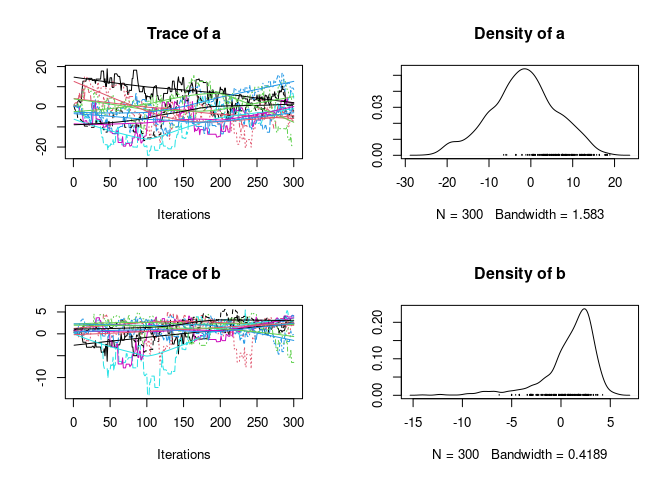
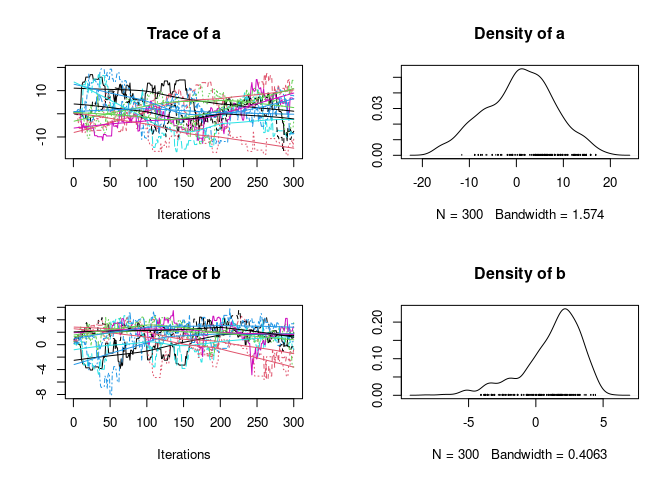
Fix author name

diff --git a/README.md b/README.md
@@ -13,8 +13,8 @@ coverage](https://codecov.io/gh/Bisaloo/MCMCEnsembleSampler/branch/master/graph/
 
 Ensemble Markov Chain Monte Carlo samplers with different strategies to
 generate proposals. Either the *stretch move* as proposed by Goodman and
-Weare (2010), or a *differential evolution jump move* (similar to Braak
-and Vrugt, 2008) is used.
+Weare (2010), or a *differential evolution jump move* (similar to ter
+Braak and Vrugt, 2008) is used.
 
 ## Installation
 
@@ -41,12 +41,12 @@ res1 <- MCMCEnsemble(p.log, lower.inits=c(a=0, b=0), upper.inits=c(a=1, b=1),
 #> Using stretch move with 10 walkers.
 str(res1)
 #> List of 2
-#>  $ samples: num [1:10, 1:300, 1:2] 0.187 0.841 0.75 0.759 0.607 ...
+#>  $ samples: num [1:10, 1:300, 1:2] 0.776 0.163 0.15 0.298 0.354 ...
 #>   ..- attr(*, "dimnames")=List of 3
 #>   .. ..$ : chr [1:10] "walker_1" "walker_2" "walker_3" "walker_4" ...
 #>   .. ..$ : chr [1:300] "generation_1" "generation_2" "generation_3" "generation_4" ...
 #>   .. ..$ : chr [1:2] "a" "b"
-#>  $ log.p  : num [1:10, 1:300] -2.04 -3.2 -2.29 -3.57 -2.65 ...
+#>  $ log.p  : num [1:10, 1:300] -3.94 -3.43 -3.6 -4.46 -2.28 ...
 #>   ..- attr(*, "dimnames")=List of 2
 #>   .. ..$ : chr [1:10] "walker_1" "walker_2" "walker_3" "walker_4" ...
 #>   .. ..$ : chr [1:300] "generation_1" "generation_2" "generation_3" "generation_4" ...
@@ -73,15 +73,15 @@ summary(res2$samples)
 #> 1. Empirical mean and standard deviation for each variable,
 #>    plus standard error of the mean:
 #> 
-#>      Mean    SD Naive SE Time-series SE
-#> a -1.7399 7.877  0.14382         0.8178
-#> b  0.9125 2.669  0.04874         0.3298
+#>     Mean    SD Naive SE Time-series SE
+#> a 0.7812 7.363  0.13443         0.8971
+#> b 1.2648 2.167  0.03957         0.2474
 #> 
 #> 2. Quantiles for each variable:
 #> 
-#>     2.5%       25%    50%   75%  97.5%
-#> a -18.69 -6.615688 -1.706 3.307 13.055
-#> b  -7.01  0.002202  1.567 2.629  4.129
+#>      2.5%     25%   50%   75%  97.5%
+#> a -14.146 -4.1775 1.130 5.914 14.729
+#> b  -4.005  0.2357 1.744 2.783  4.293
 plot(res2$samples)
 ```
 
@@ -105,15 +105,15 @@ summary(res3$samples)
 #> 1. Empirical mean and standard deviation for each variable,
 #>    plus standard error of the mean:
 #> 
-#>     Mean    SD Naive SE Time-series SE
-#> a -2.678 8.132  0.14847         0.7764
-#> b  0.845 2.993  0.05465         0.2791
+#>      Mean    SD Naive SE Time-series SE
+#> a -1.9650 8.266  0.15092         0.7680
+#> b  0.7612 2.592  0.04733         0.2674
 #> 
 #> 2. Quantiles for each variable:
 #> 
-#>      2.5%      25%    50%   75%  97.5%
-#> a -19.745 -8.44280 -2.548 2.914 12.741
-#> b  -8.692 -0.02621  1.563 2.927  4.421
+#>      2.5%     25%    50%   75%  97.5%
+#> a -16.982 -8.0114 -1.857 4.681 11.685
+#> b  -5.593 -0.4268  1.350 2.500  4.405
 plot(res3$samples)
 ```
 
